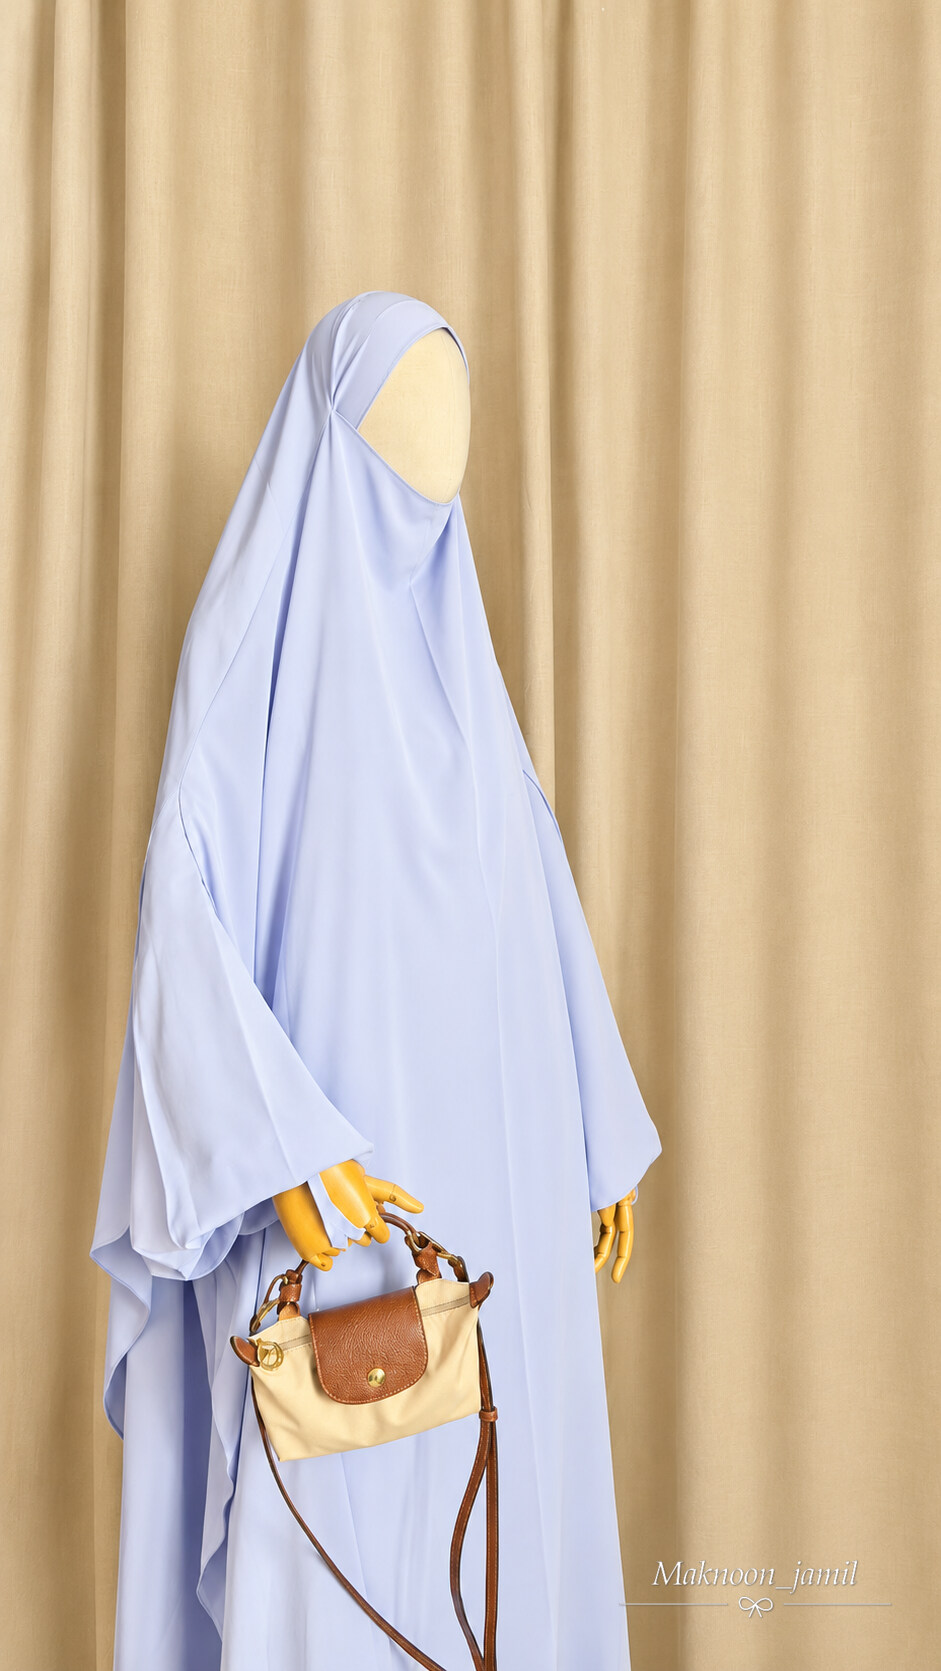
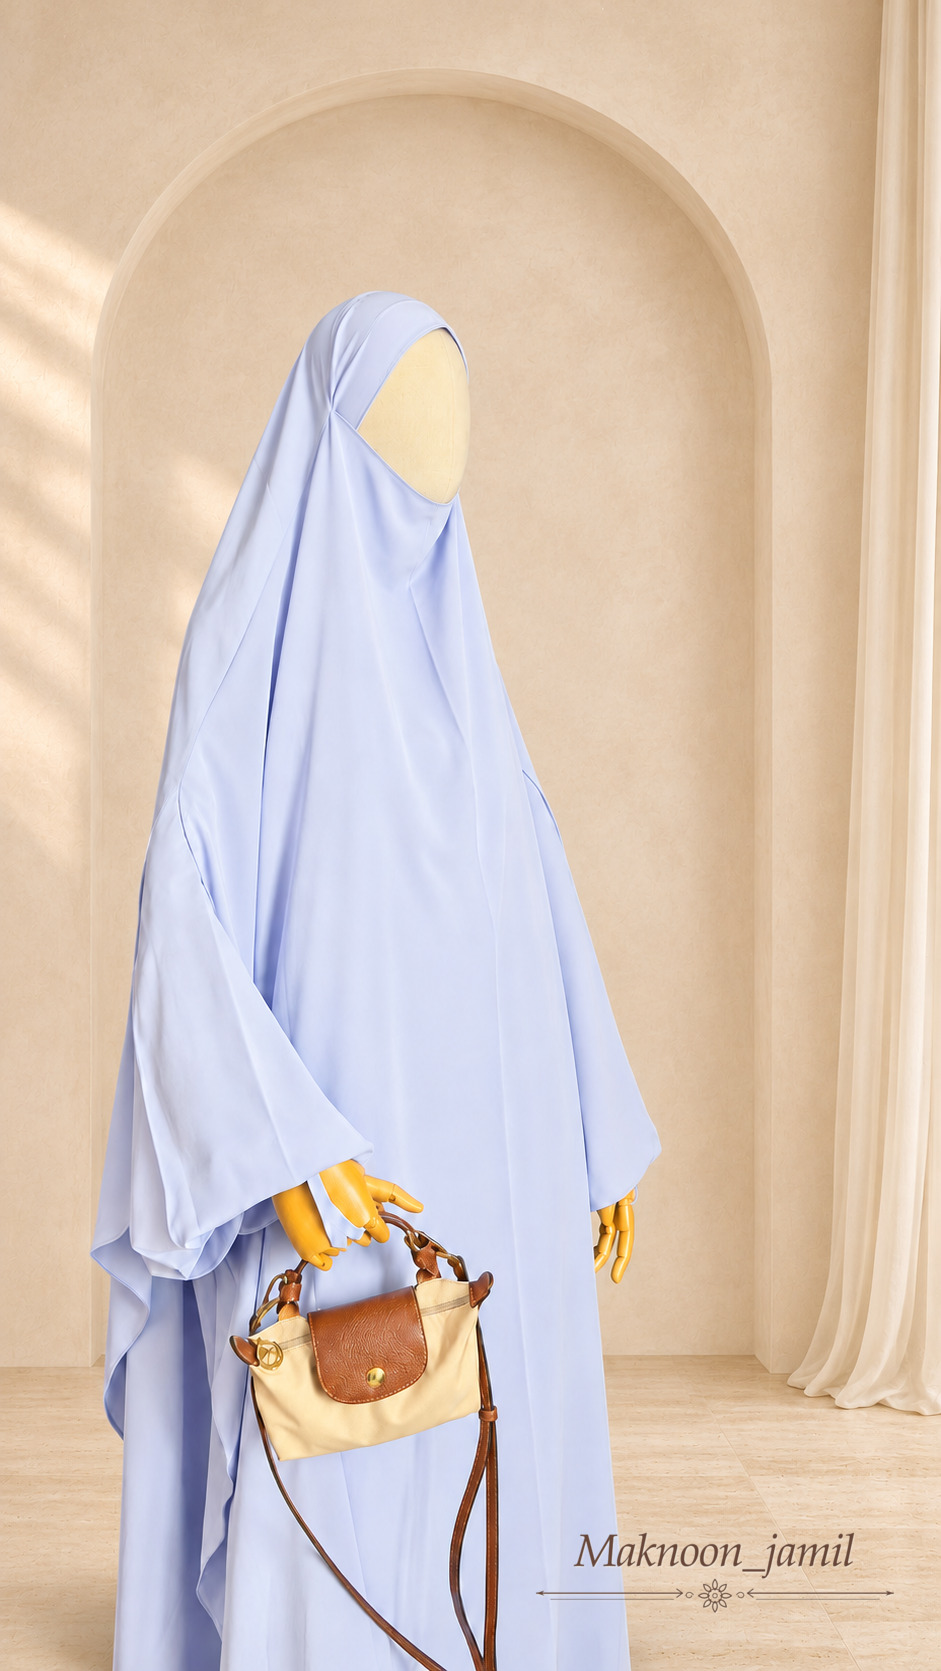
Upgrade Maknoon product photography and ornamental signature

diff --git a/tests/seo.test.js b/tests/seo.test.js
@@ -120,7 +120,11 @@ test('nine new Maknoon photographs become four products, six colours and matchin
     assert.ok(existsSync(publicFile(path)), `Missing owner photo: ${path}`);
     assert.equal(readFileSync(publicFile(path)).subarray(0, 3).toString('hex'), 'ffd8ff');
   }
-  assert.match(readFileSync(publicFile('/brand/maknoon-photo-watermark.svg'), 'utf8'), /Maknoon_jamil/);
+  const watermark = readFileSync(publicFile('/brand/maknoon-photo-watermark.svg'), 'utf8');
+  assert.match(watermark, /Maknoon_jamil/);
+  assert.match(watermark, /eight-petalled arabesque/);
+  assert.match(watermark, /M34 153H317 M443 153H726/);
+  assert.match(watermark, /M61 165H300 M460 165H699/);
   const niqab = maknoonPhotoBatch[1];
   const petrol = variantPage(niqab, niqab.variants[0], origin, whatsappNumber, { name: 'Maknoon Jamil', home: '/maknoon-jamil/' });
   const petrolGallery = petrol.match(/<div class="product-gallery"[^>]*>[^<]*<img[^>]*><\/div>/)?.[0];

diff --git a/docs/MAKNOON-PHOTO-BATCH-20261109.md b/docs/MAKNOON-PHOTO-BATCH-20261109.md
@@ -16,9 +16,9 @@ Nine owner-supplied original photographs were compared for **garment structure**
 
 ## Image art direction
 
-- Each photo was AI-retouched using **the individual supplied image as edit target**, not generated as an ungrounded clothing design. Exposure and backdrop were improved; fabric shapes, seams, colours, and recognisable accessories were kept.
-- The old inconsistent overlaid `Maknoon_jamil` text, colour callouts and decorative lines were removed during retouching. A consistent serif-italic **Maknoon_jamil** plus fine rules and small bow is reapplied in the **bottom-right corner** to every processed JPEG.
-- The watermark's SVG is the reusable master. `node scripts/add-maknoon-watermark.mjs cleaned-image.png public/images/mj-filename.jpg` applies it with scale based on photo width, constant relative inset, and a soft shadow for readability.
+- Each photo was AI-retouched using **the individual supplied image as edit target**, not generated as an ungrounded clothing design. The images were then given a second unified art-direction pass: a warm-ivory limewash-plaster studio, a shallow rounded alcove, subtle champagne-travertine floor and delicate side lighting. The original mixed gold curtains, blank backdrops and mirror were replaced. Fabric shapes, seams, colours, details, mannequin poses and recognisable accessories remain intact.
+- The old inconsistent overlaid `Maknoon_jamil` text, colour callouts and decorative lines were removed during retouching. A more luxurious serif-italic **Maknoon_jamil** is placed in the same **bottom-right corner** with symmetrical **double hairline rules and a miniature eight-petalled geometric arabesque rosette**—a restrained reference to traditional Islamic ornamental art.
+- The watermark's SVG is the reusable master. `node scripts/add-maknoon-watermark.mjs cleaned-image.png public/images/mj-filename.jpg` applies it with scale based on photo width and a constant relative inset. The artwork uses ivory over dark fabric or muted cocoa over the light studio floor, selected from local background luminance so the signature remains legible without a heavy opaque label.
 - All nine final images are compressed JPEGs. No product is assigned an invented price, fabric specification, or assertion that separately pictured bags/abayas are included in a purchase.
 - Front/full-length views lead where available. Detail views only appear for the corresponding variant; colour-specific galleries do not accidentally mix garments.
 - New product IDs are deterministic, with no duplication of an existing product ID. Static pages, WhatsApp ordering, share JPEG metadata and the sitemap are generated from the same source catalogue.
@@ -29,7 +29,9 @@ Nine owner-supplied original photographs were compared for **garment structure**
 - [x] Nine source images mapped to four designs, six colour options, and three detail photographs.
 - [x] Preserve original catalogue products and existing edits; append in source order.
 - [x] AI clean-up of all nine references, with original watermarks removed.
-- [x] Uniform bottom-right white italic wordmark, bow and hairline rules.
+- [x] Nine portraits restaged on a cohesive ivory-and-limestone luxury backdrop.
+- [x] Uniform bottom-right elegant italic wordmark with paired lines, floral arabesque and contrast-aware colours.
+- [x] Canonical share URLs and sitemap default to the current `https://shop.masanawa.com` domain.
 - [x] Correct variant-specific detail galleries and no duplicate products.
 - [x] Integrate static pages and D1 owner-managed routes.
 - [x] Preserve WhatsApp ordering and sharing links, individual preview images and sitemap discovery.

diff --git a/README.md b/README.md
@@ -58,7 +58,7 @@ Cloudflare builds and publishes `dist/`. Subsequent pushes to the connected prod
 - `public/images/` contains existing modestwear photos, the owner's Pop & Petals photographs, regenerated Flawless Glow Co product images, and the three category cover images.
 - `scripts/build.mjs` validates image paths and generates the static deployment.
 
-Maknoon Jamil retains its earlier studio-rendered designs and now includes four new, accurately differentiated styles from nine proprietor-supplied photographs: a powder-blue full-drape jilbab, a three-colour tiered niqab khimar, a gathered plum maxi abaya with its detail photo, and a plum/dusty-mauve long khimar look. Alternate camera angles remain variant-specific galleries, not duplicate products. Every new image is gently retouched with the original cut and colour preserved and the same bottom-right italic **Maknoon_jamil** watermark. The vector artwork is in `public/brand/maknoon-photo-watermark.svg`; `scripts/add-maknoon-watermark.mjs` produces the consistent branded JPEG after AI photo cleanup. See `docs/MAKNOON-PHOTO-BATCH-20261109.md` for exact grouping and image assignments. The only confirmed price remains ₦25,000 for the Flow Abaya. Confirm availability, price, and details over WhatsApp.
+Maknoon Jamil retains its earlier studio-rendered designs and now includes four new, accurately differentiated styles from nine proprietor-supplied photographs: a powder-blue full-drape jilbab, a three-colour tiered niqab khimar, a gathered plum maxi abaya with its detail photo, and a plum/dusty-mauve long khimar look. Alternate camera angles remain variant-specific galleries, not duplicate products. All nine photographs now share a luxurious warm-ivory architectural-studio backdrop, with the original garments' cuts and colours preserved. Each is finished with the same bottom-right italic **Maknoon_jamil** signature, parallel ornamental rules and a miniature arabesque floral rosette, with contrast-aware ink. The vector artwork is in `public/brand/maknoon-photo-watermark.svg`; `scripts/add-maknoon-watermark.mjs` produces the consistent branded JPEG after AI photo cleanup. See `docs/MAKNOON-PHOTO-BATCH-20261109.md` for exact grouping and image assignments. The only confirmed price remains ₦25,000 for the Flow Abaya. Confirm availability, price, and details over WhatsApp.
 
 Every colour has a static product page with a JPEG link preview. The WhatsApp order message includes that page’s URL. The static build uses `https://shop.masanawa.com` for public share links and preview images. Set the optional `SITE_URL` build variable to override that origin for a different storefront domain. WhatsApp controls whether its app displays a thumbnail.
 
